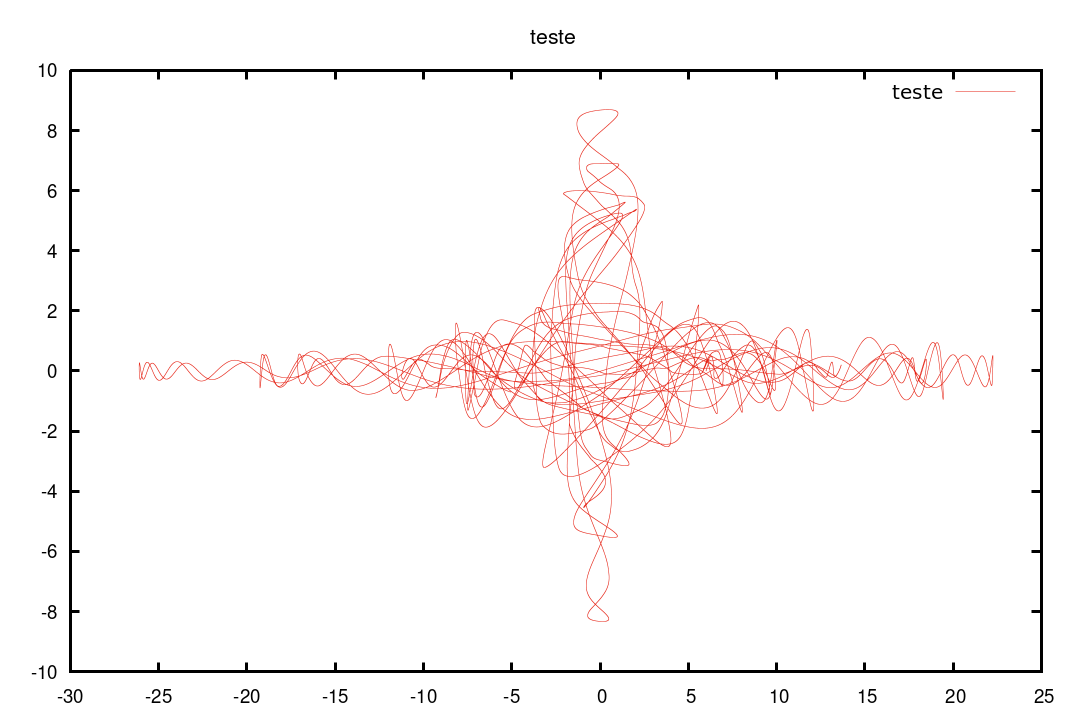
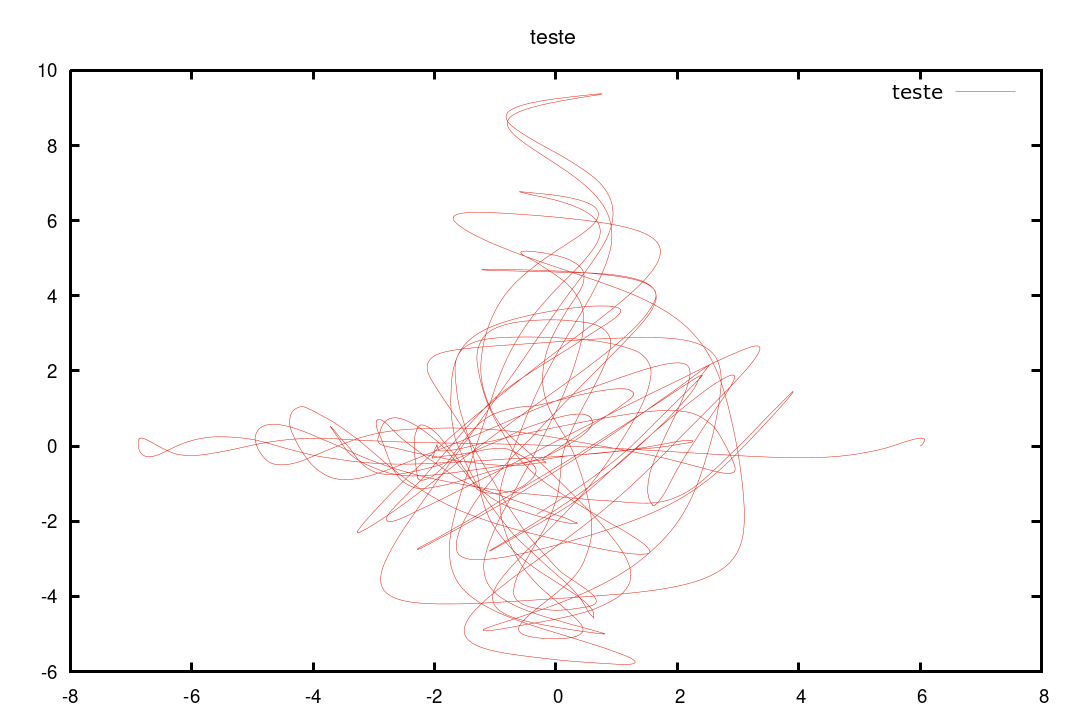
Quantum pendulum trajectory

diff --git a/C++/source/main.cpp b/C++/source/main.cpp
@@ -138,7 +138,7 @@ int main()
     printMatrixToFile(A,"arquivoTesteLyapunovVsRho.dat");
     */
     //A = discreteClassLyap(integrationAux, 1, 0.1, 500,1);
-    A = discreteLyap(integrationAux, 0.1, 0.0001, 1000000,1);
+    A = discreteLyap(integrationAux, 0.1, 1e-3, 1e5,1);
     printMatrixToFile(A,"Discrete/teste.dat");
     plot2D("Discrete/teste","Discrete/teste","teste","teste");
 
